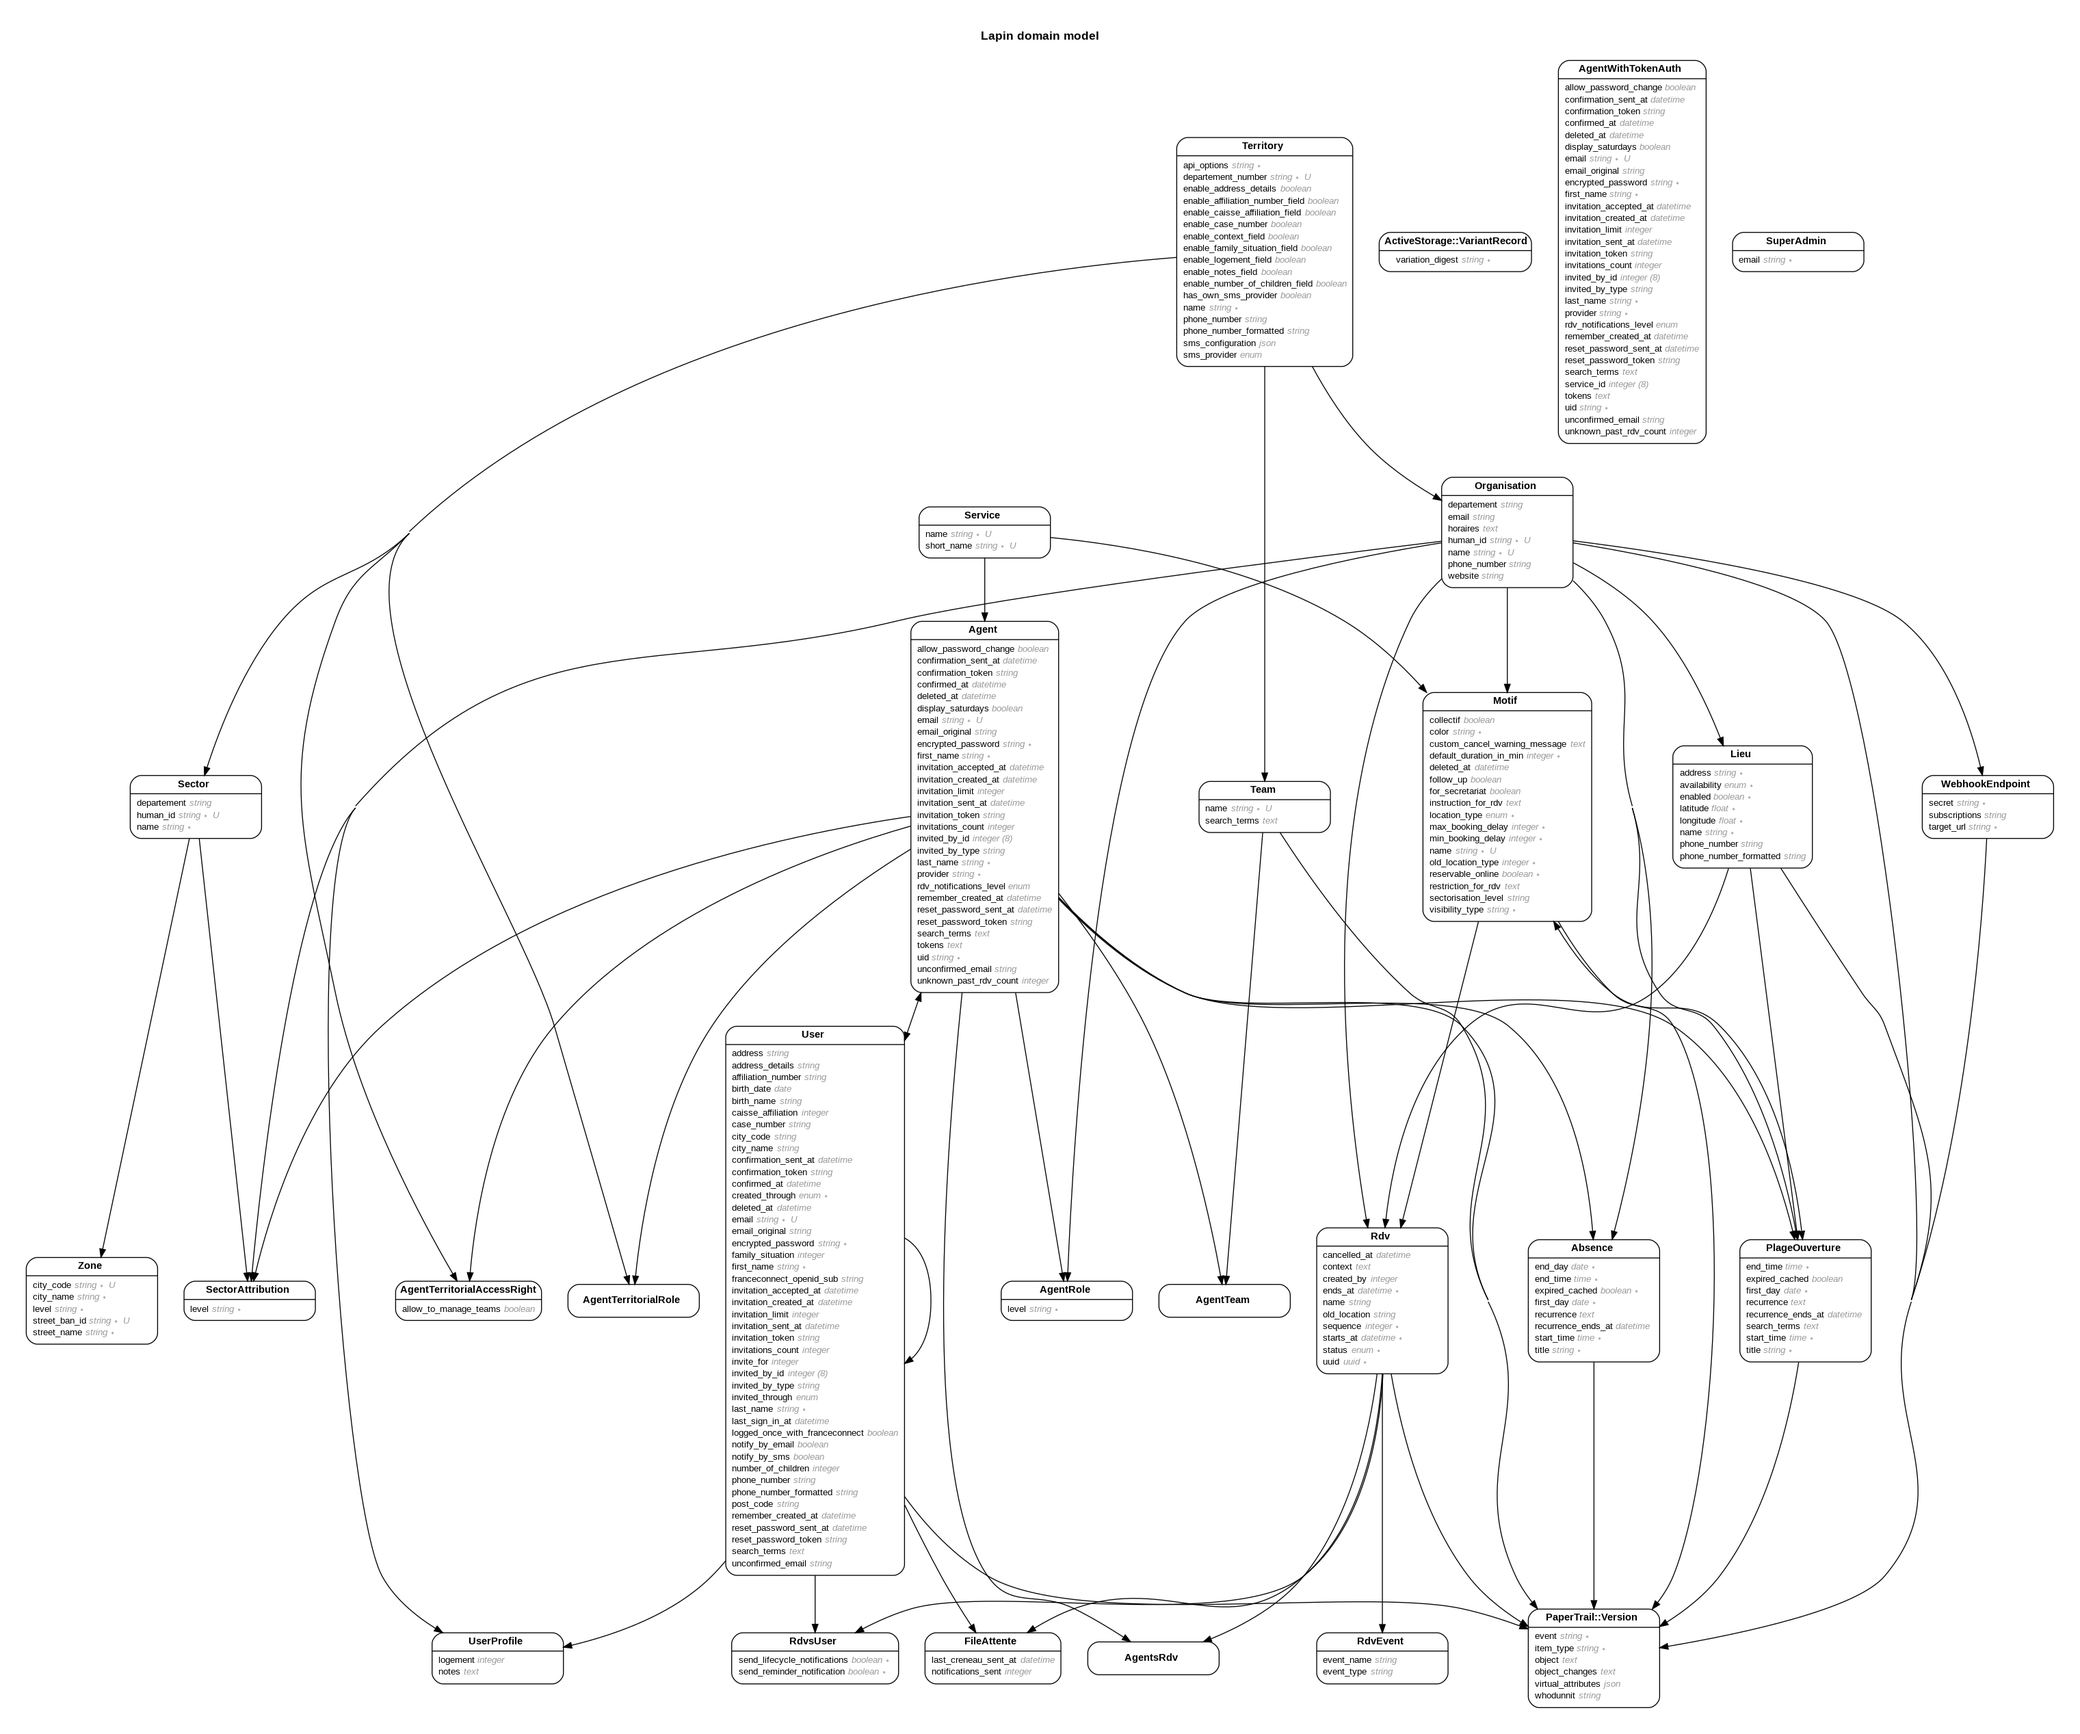
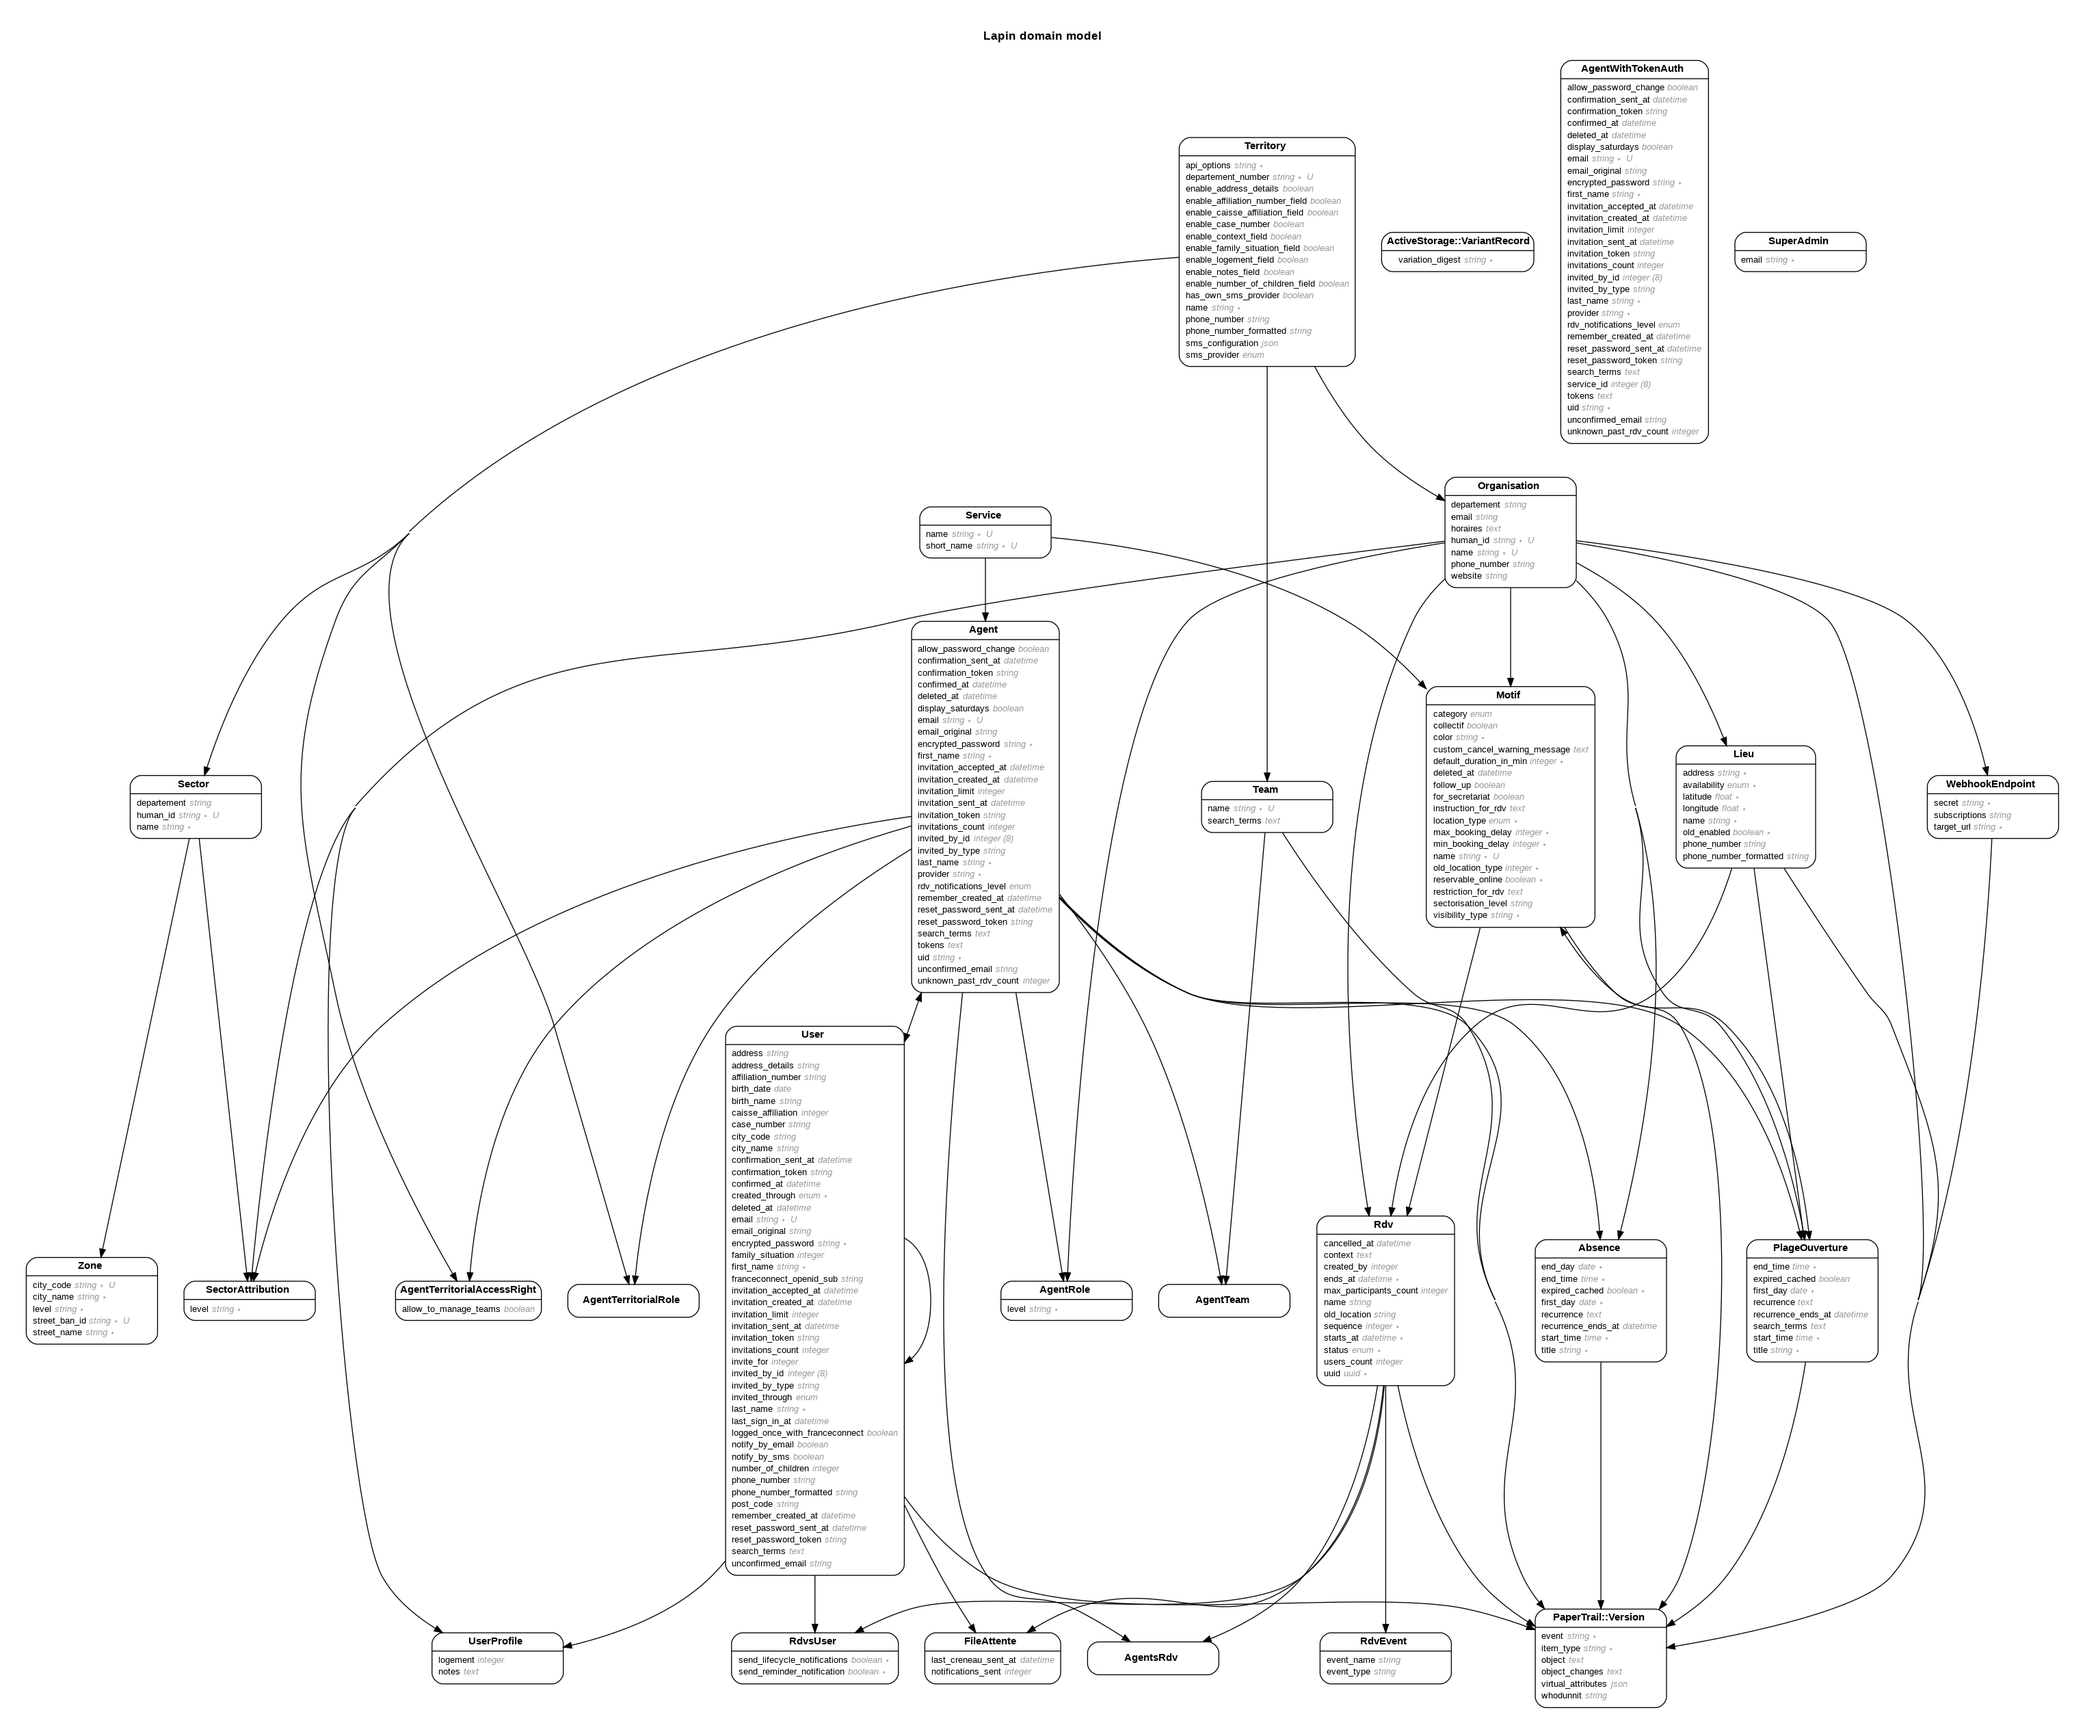
add categories to motif

diff --git a/db/schema.rb b/db/schema.rb
@@ -10,7 +10,7 @@
 #
 # It's strongly recommended that you check this file into your version control system.
 
-ActiveRecord::Schema.define(version: 2022_03_21_181557) do
+ActiveRecord::Schema.define(version: 2022_04_01_150352) do
 
   # These are extensions that must be enabled in order to support this database
   enable_extension "plpgsql"
@@ -34,6 +34,12 @@ ActiveRecord::Schema.define(version: 2022_03_21_181557) do
     "public_office",
     "home",
     "phone",
+  ], force: :cascade
+
+  create_enum :motif_category, [
+    "rsa_orientation",
+    "rsa_accompagnement",
+    "rsa_orientation_phone_platform",
   ], force: :cascade
 
   create_enum :rdv_status, [
@@ -293,7 +299,9 @@ ActiveRecord::Schema.define(version: 2022_03_21_181557) do
     t.text "custom_cancel_warning_message"
     t.boolean "collectif", default: false
     t.enum "location_type", default: "public_office", null: false, enum_type: "location_type"
+    t.enum "category", enum_type: "motif_category"
     t.index "to_tsvector('simple'::regconfig, (COALESCE(name, (''::text)::character varying))::text)", name: "index_motifs_name_vector", using: :gin
+    t.index ["category"], name: "index_motifs_on_category"
     t.index ["collectif"], name: "index_motifs_on_collectif"
     t.index ["deleted_at"], name: "index_motifs_on_deleted_at"
     t.index ["location_type"], name: "index_motifs_on_location_type"
@@ -473,6 +481,11 @@ ActiveRecord::Schema.define(version: 2022_03_21_181557) do
     t.boolean "enable_address_details", default: false
     t.boolean "enable_context_field", default: false
     t.index ["departement_number"], name: "index_territories_on_departement_number", unique: true, where: "((departement_number)::text <> ''::text)"
+  end
+
+  create_table "tokens", force: :cascade do |t|
+    t.datetime "created_at", precision: 6, null: false
+    t.datetime "updated_at", precision: 6, null: false
   end
 
   create_table "user_profiles", force: :cascade do |t|

diff --git a/app/models/motif.rb b/app/models/motif.rb
@@ -27,6 +27,9 @@ class Motif < ApplicationRecord
   SECTORISATION_TYPES = [SECTORISATION_LEVEL_AGENT, SECTORISATION_LEVEL_ORGANISATION, SECTORISATION_LEVEL_DEPARTEMENT].freeze
 
   enum location_type: { public_office: "public_office", phone: "phone", home: "home" }
+  enum category: { rsa_orientation: "rsa_orientation",
+                   rsa_accompagnement: "rsa_accompagnement",
+                   rsa_orientation_phone_platform: "rsa_orientation_phone_platform" }
 
   # Relations
   belongs_to :organisation

diff --git a/spec/factories/motif.rb b/spec/factories/motif.rb
@@ -12,6 +12,7 @@ FactoryBot.define do
     min_booking_delay { 30.minutes.seconds }
     max_booking_delay { 6.months.seconds }
     color { "##{SecureRandom.hex(3)}" }
+    category { Motif.categories.first.first }
     instruction_for_rdv { "Intruction pour le RDV" }
     restriction_for_rdv { "Consigne pour le RDV" }
     reservable_online { true }

diff --git a/db/migrate/20220401150352_add_category_to_motifs.rb b/db/migrate/20220401150352_add_category_to_motifs.rb
@@ -1,0 +1,9 @@
+# frozen_string_literal: true
+
+class AddCategoryToMotifs < ActiveRecord::Migration[6.1]
+  def change
+    create_enum :motif_category, %i[rsa_orientation rsa_accompagnement rsa_orientation_phone_platform]
+    add_column :motifs, :category, :motif_category
+    add_index :motifs, :category
+  end
+end

diff --git a/app/controllers/admin/motifs_controller.rb b/app/controllers/admin/motifs_controller.rb
@@ -88,7 +88,7 @@ class Admin::MotifsController < AgentAuthController
   def motif_params
     params.require(:motif)
       .permit(:name, :service_id,
-              :color,
+              :color, :category,
               :default_duration_in_min,
               :reservable_online,
               :location_type,

diff --git a/app/controllers/api/v1/motifs_controller.rb b/app/controllers/api/v1/motifs_controller.rb
@@ -9,6 +9,8 @@ class Api::V1::MotifsController < Api::V1::BaseController
 
     motifs = motifs.where(service_id: params[:service_id]) if params[:service_id].present?
 
+    motifs = motifs.where(category: params[:category]) if params[:category].present?
+
     render_collection(motifs.order(:id))
   end
 end

diff --git a/app/blueprints/motif_blueprint.rb b/app/blueprints/motif_blueprint.rb
@@ -3,5 +3,5 @@
 class MotifBlueprint < Blueprinter::Base
   identifier :id
 
-  fields :name, :location_type, :deleted_at, :reservable_online, :service_id
+  fields :name, :location_type, :deleted_at, :reservable_online, :service_id, :category
 end

diff --git a/spec/blueprint/rdv_blueprint_spec.rb b/spec/blueprint/rdv_blueprint_spec.rb
@@ -10,6 +10,7 @@ describe RdvBlueprint do
 
     it do
       expect(json.dig("rdv", "status")).to eq "revoked"
+      expect(json.dig("rdv", "motif", "category")).to eq Motif.categories.first.first
     end
   end
 end
